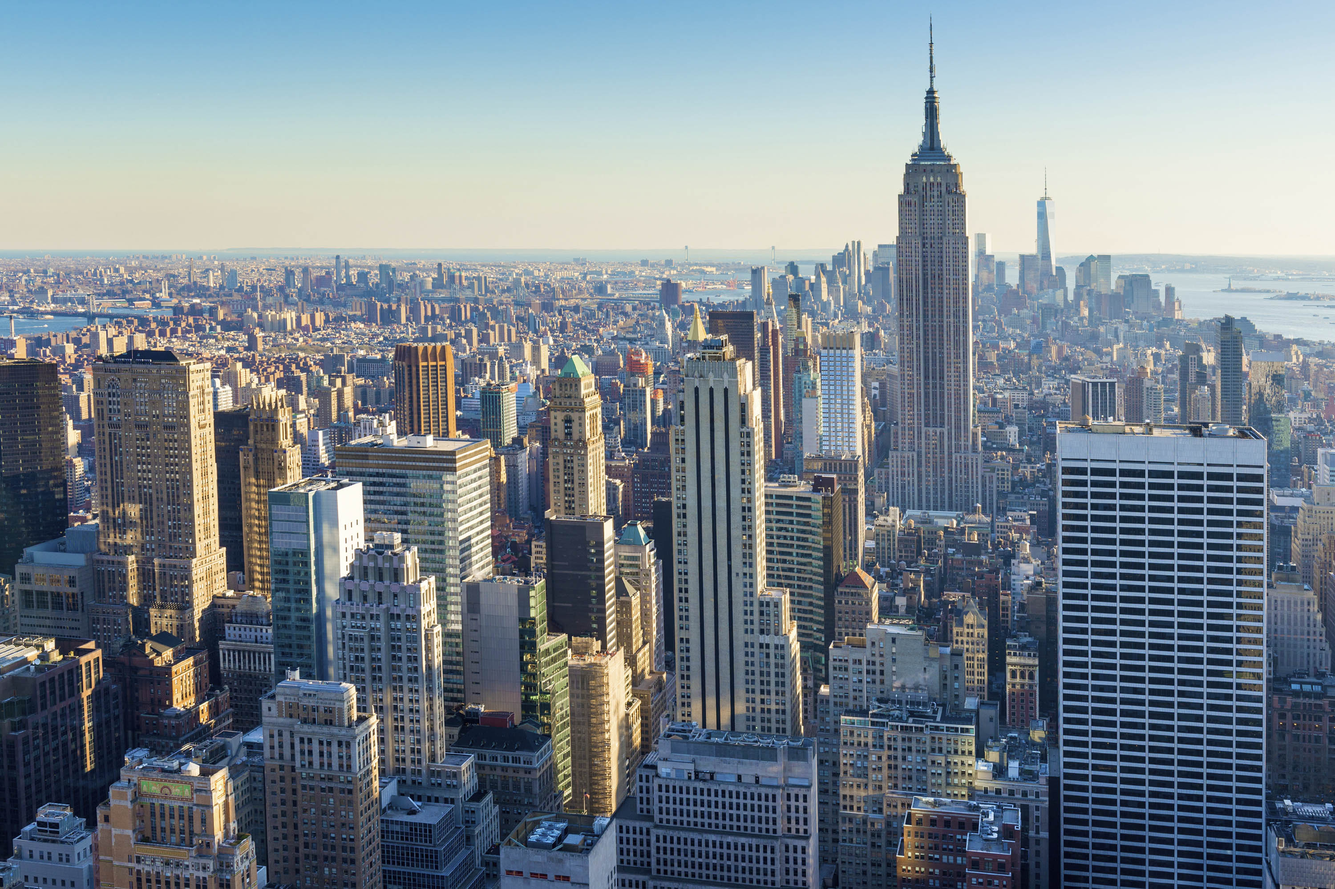
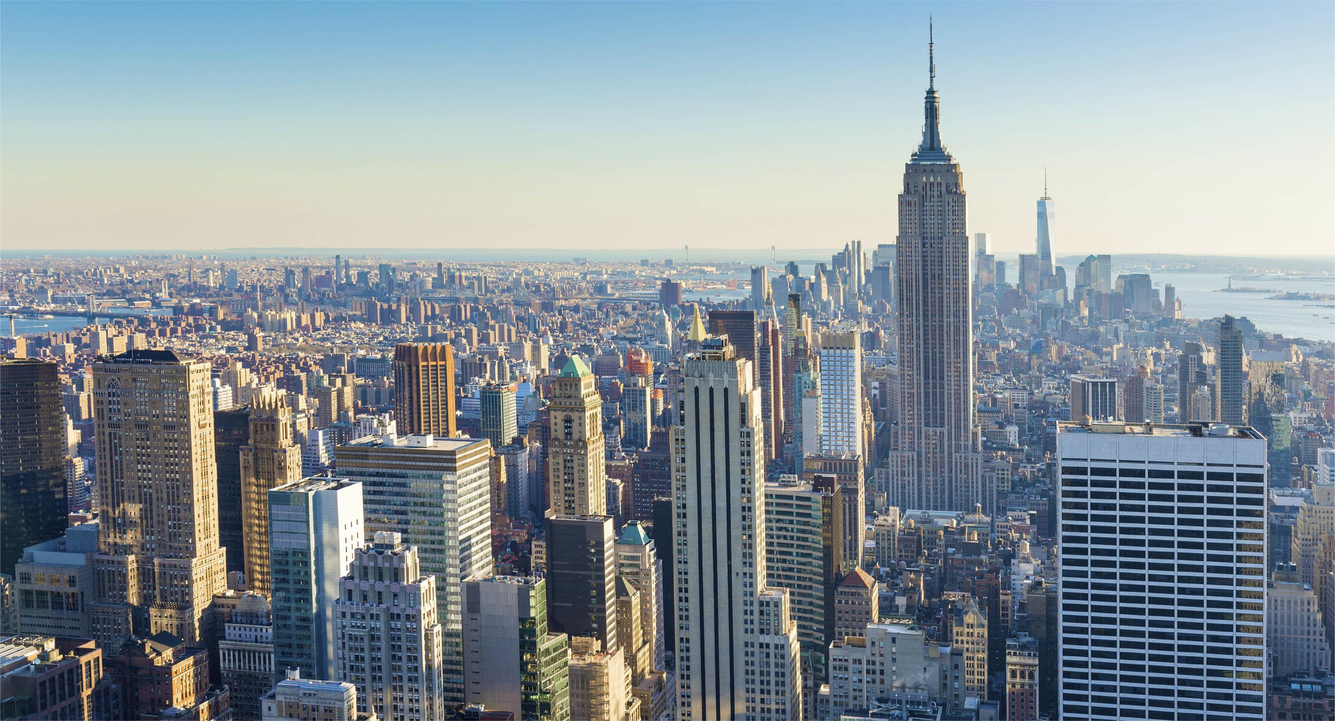
done

diff --git a/place.html b/place.html
@@ -1,20 +1,25 @@
 <!DOCTYPE html>
 <html lang="en">
+
 <head>
     <meta charset="UTF-8">
     <meta name="viewport" content="width=device-width, initial-scale=1.0">
     <meta name="description" content="WDD 131 - Dynamic Web Fundamentals - Kolawole Uthman">
     <meta name="author" content="Kolawole Uthman">
-    <title>WDD 131 - Dynamic Web Fundamentals - Kolawole uthman</title>
+    <title>Place website</title>
     <link rel="stylesheet" href="styles/place.css">
     <script src="scripts/place.js" defer></script>
+    <link
+        href="https://fonts.googleapis.com/css2?family=Barlow+Condensed:wght@100;400&family=Noto+Sans:ital,wght@0,100..900;1,100..900&family=Open+Sans:ital,wght@0,300..800;1,300..800&family=Platypi:ital,wght@0,300..800;1,300..800&display=swap"
+        rel="stylesheet">
 </head>
+
 <body>
     <header>
         <h1>Nigeria</h1>
     </header>
     <main>
-        <img src="images/ny.jpg" alt="" width="100%" height="5%">
+        <img src="images/my.webp" alt="" width="100%">
         <section class="data">
             <h2>Data</h2>
             <ul>
@@ -43,4 +48,5 @@
         <p>Last Modification: <span id="lastModified"></span></p>
     </footer>
 </body>
+
 </html>
